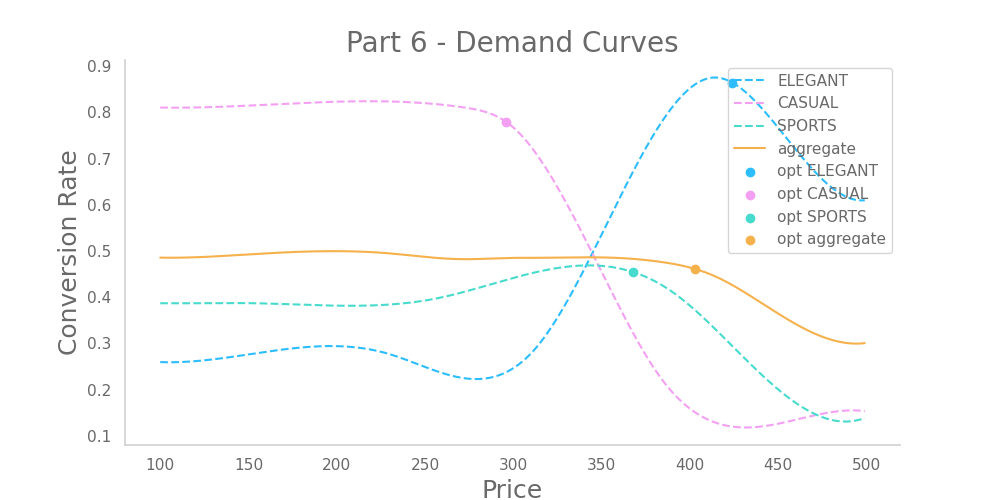
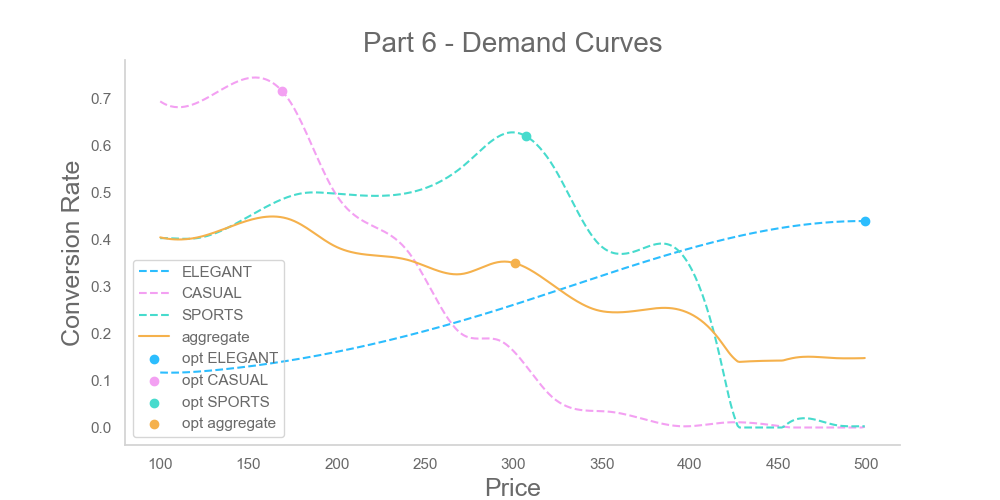
demand curvers on part 6

diff --git a/project/part_6/Testing_Env_6.py b/project/part_6/Testing_Env_6.py
@@ -12,7 +12,7 @@ from project.part_4.MultiClassHandler import MultiClassHandler
 from project.part_6.BudgetAllocator import BudgetAllocator
 
 
-def test_part6(n_experiments=25,
+def test_part6(n_experiments=1,
                enable_pricing=True,
                plot_advertising=False,
                keep_daily_price=True,
